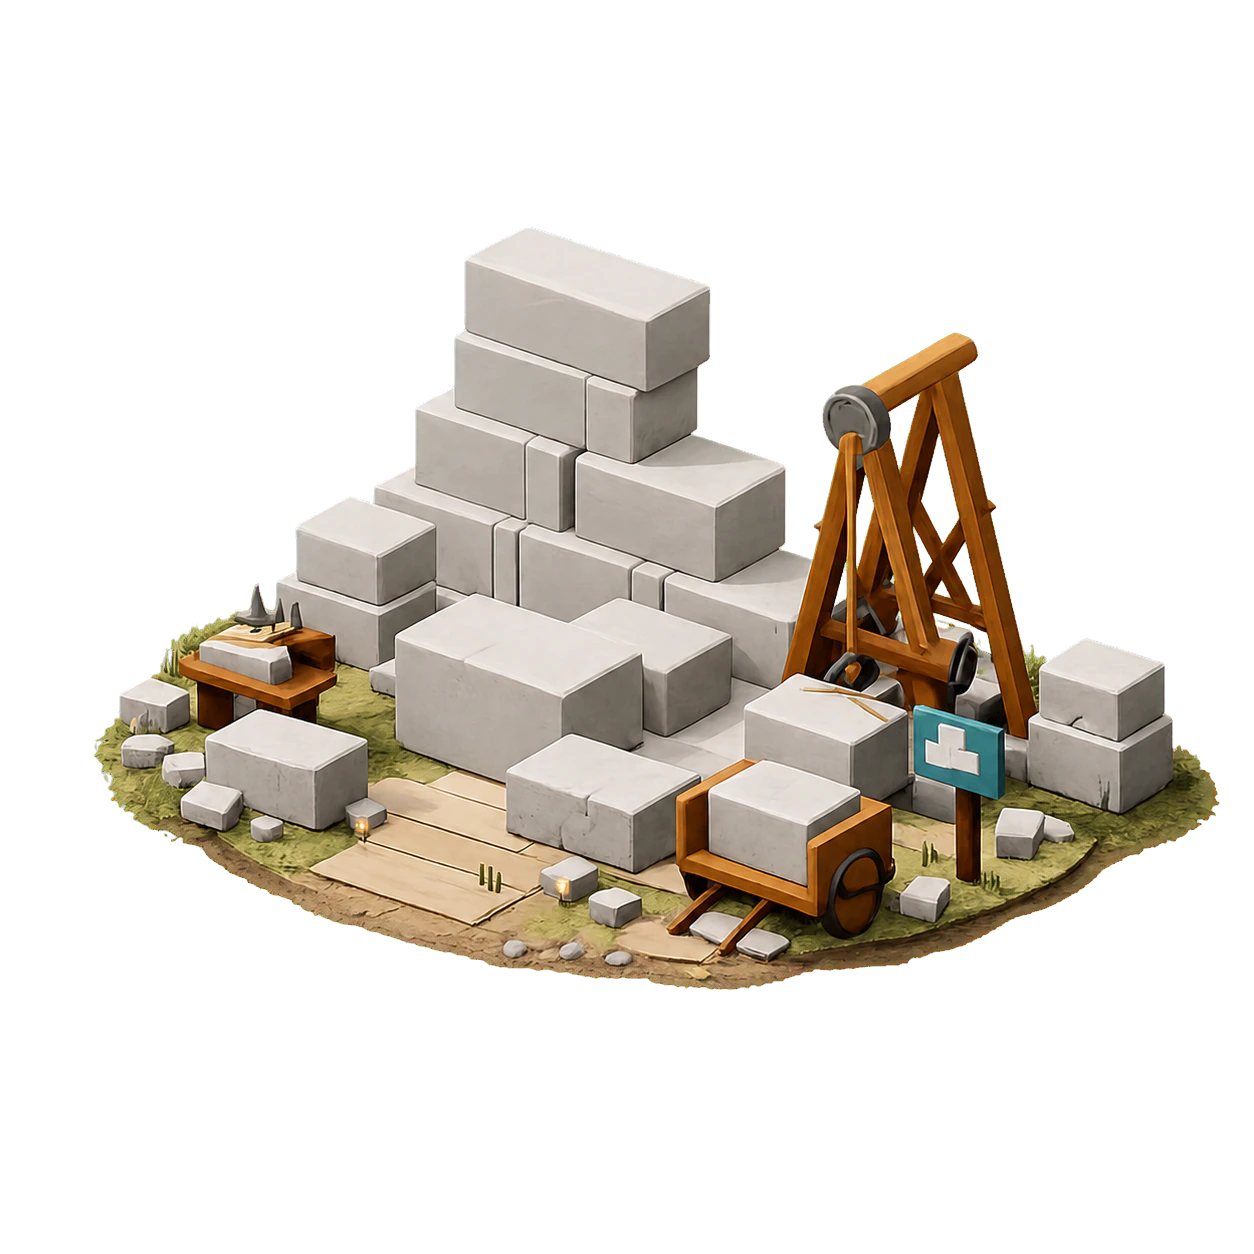
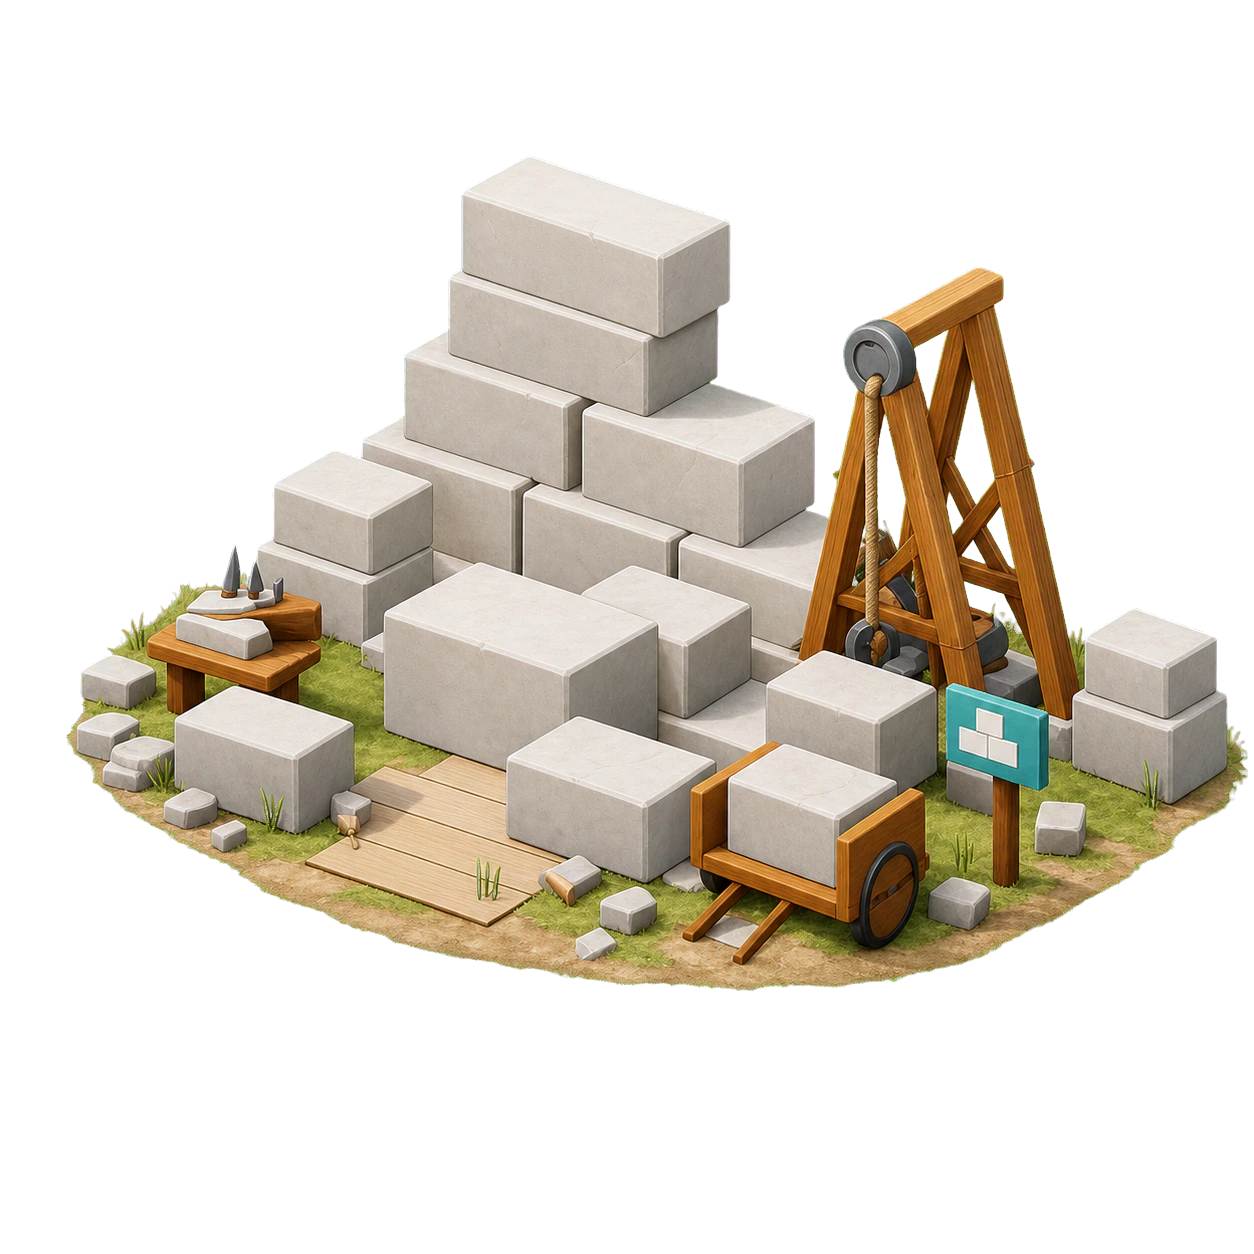
assets: refresh Stone Quarry record art

Changed region(s): [[0.0311, 0.1244, 0.9952, 0.8086]]

diff --git a/tests/stoneQuarryRecordArt.test.ts b/tests/stoneQuarryRecordArt.test.ts
@@ -80,7 +80,7 @@ function visibleBounds(raw: Buffer, width: number, height: number) {
 describe('Hegemony Stone Quarry record art', () => {
   it('pins the narrow UI authorization while keeping gameplay server-owned', () => {
     expect(manifest.schemaVersion).toBe(1);
-    expect(manifest.projectAuthorization.scope).toContain('PR #59');
+    expect(manifest.projectAuthorization.scope).toContain('PR #65');
     expect(manifest.projectAuthorization.scope).toContain('public Warpkeep GitHub repository');
     expect(manifest.projectAuthorization.scope).toContain('official warpkeep.com Pages runtime');
     expect(manifest.projectAuthorization.notGranted.join(' ')).toMatch(

diff --git a/ASSETS-LICENSE.md b/ASSETS-LICENSE.md
@@ -133,8 +133,8 @@ Gold/Marks authority. No Pages deployment is authorized by this record.
 
 ## Hegemony Stone Quarry inspection artwork
 
-On 2026-07-18, the Warpkeep project owner supplied a Stone Quarry visual and
-instructed isolated draft PR #59 to prepare a high-resolution UI element in the
+On 2026-07-19, the Warpkeep project owner supplied a Stone Quarry visual and
+instructed draft PR #65 to prepare a high-resolution UI element in the
 same careful inspection-art pattern. That authorization covers this exact
 checked-in output in the public Warpkeep GitHub repository and an eventual
 official `warpkeep.com` Pages runtime after separately approved deployment. It
@@ -145,15 +145,15 @@ expose a balance, or activate gathering.
 
 | Intended use | Repository file | Technical record |
 | --- | --- | --- |
[2 lines of base64/hex data omitted]
 
 The exact source attachment and image-generation/chroma-matte intermediates are
 not committed. Their hashes, prompt, cleanup parameters, decoded RGBA hash,
 alpha profile, and visible bounds are recorded in the dated [Stone Quarry
 inspection-art record](docs/reference/resources/2026-07-18-hegemony-stone-quarry/record-art/manifest.json).
-The prepared panel is deliberately unmounted until a separately reviewed
-authoritative Stone-site integration; it grants no resource, currency, reward,
-entitlement, map-placement, Stone/Marks authority, or Pages deployment.
+The prepared panel is mounted only through the separately reviewed canonical
+Stone-site integration; it grants no resource, currency, reward, entitlement,
+map-placement, Stone/Marks authority, or Pages deployment.
 
 ## Hegemony Gold Mine review candidates
 

diff --git a/docs/reference/resources/2026-07-18-hegemony-stone-quarry/record-art/README.md b/docs/reference/resources/2026-07-18-hegemony-stone-quarry/record-art/README.md
@@ -7,8 +7,8 @@ chroma-matte intermediate remain outside the repository; their hashes,
 dimensions, and complete bounded transformation are retained in
 [`manifest.json`](manifest.json).
 
-On 18 July 2026, the Warpkeep project owner supplied the Quarry visual and
-instructed draft PR #59 to add a polished high-resolution UI element similar to
+On 19 July 2026, the Warpkeep project owner supplied the Quarry visual and
+instructed draft PR #65 to add a polished high-resolution UI element similar to
 the reviewed inspection-art pattern. That authorization covers this exact
 checked-in derivative in the public Warpkeep GitHub repository and an eventual
 official `warpkeep.com` Pages runtime only after separately approved deployment.
@@ -20,12 +20,12 @@ derivative, redistribution, trademark, or canonical-identity rights.
 
 | File | Dimensions | Bytes | SHA-256 |
 | --- | ---: | ---: | --- |
[2 lines of base64/hex data omitted]
 
 The rendered Quarry was placed on a flat chroma-green field, then a recorded
 soft chroma matte removed the field and despilled the edge. The decoded result
-has 1,078,736 fully transparent, 5,760 partially transparent, and 488,020
-opaque pixels. Its alpha-16 visible bounds are `x=93..1219`, `y=227..989`,
+has 987,016 fully transparent, 7,749 partially transparent, and 577,751
+opaque pixels. Its alpha-16 visible bounds are `x=66..1247`, `y=156..990`,
 leaving transparent breathing room around the quarry, hoist, cart, workbench,
 and ground silhouette.
 

diff --git a/docs/legal/license-inventory.md b/docs/legal/license-inventory.md
@@ -34,7 +34,7 @@ staged visual groundwork.
 | `/public/images/realm/hegemony-gold-mine-record.webp` | Transparent decorative Gold Mine inspection-card artwork | Not present | `LicenseRef-Warpkeep-Provenance-Required`; no separate public open license asserted | On 2026-07-18, the project owner authorized the exact background-cleaned derivative for PR #49 and the reviewed Gold Wagon integration in the public Warpkeep GitHub repository, plus an eventual official `warpkeep.com` Pages runtime only after separately approved deployment; this is not deployment approval or Gold Mine economic authority | The dated Gold Mine inspection-art record pins the supplied input, generated/chroma inputs, exact output, alpha audit, UI-only boundary, and authorization scope | Preserve the exact hash and decorative-only use; do not infer a node placement, gathering action, balance, reward, Marks linkage, public relicensing, or general redistribution authority |
 | `/public/images/realm/hegemony-wheat-farm-record.webp` | Transparent decorative Wheat Farm inspection-card artwork | Not present | `LicenseRef-Warpkeep-Provenance-Required`; no separate public open license asserted | On 2026-07-18, the project owner authorized the exact background-cleaned derivative for PR #57 in the public Warpkeep GitHub repository, plus an eventual official `warpkeep.com` Pages runtime only after separately approved deployment; this is not deployment approval or Food economic authority | The dated Wheat Farm inspection-art record pins the supplied input, generated/chroma inputs, exact output, alpha audit, UI-only boundary, and authorization scope | Preserve the exact hash and decorative-only use; do not infer a Food-site placement, gathering action, balance, reward, Marks linkage, public relicensing, or general redistribution authority |
 | `/public/images/realm/hegemony-logging-camp-record.webp` | Transparent decorative Logging Camp inspection-card artwork | Not present | `LicenseRef-Warpkeep-Provenance-Required`; no separate public open license asserted | On 2026-07-19, the project owner authorized the exact background-cleaned derivative for PR #62 in the public Warpkeep GitHub repository, plus an eventual official `warpkeep.com` Pages runtime only after separately approved deployment; this is not merge or deployment approval or Wood economic authority | The dated Logging Camp inspection-art record pins the supplied RGB preview, local alpha-matte input, exact output, alpha/spill audit, UI-only boundary, and authorization scope | Preserve the exact hash and decorative-only use; do not infer a Wood-site placement, gathering action, balance, reward, Marks linkage, public relicensing, or general redistribution authority |
-| `/public/images/realm/hegemony-stone-quarry-record.webp` | Transparent decorative Stone Quarry inspection-card artwork | Not present | `LicenseRef-Warpkeep-Provenance-Required`; no separate public open license asserted | On 2026-07-18, the project owner authorized the exact background-cleaned derivative for draft PR #59 in the public Warpkeep GitHub repository, plus an eventual official `warpkeep.com` Pages runtime only after separately approved deployment; this is not deployment approval or Stone-site/economic authority | The dated Stone Quarry inspection-art record pins the supplied input, generated/chroma inputs, exact output, alpha audit, UI-only boundary, and authorization scope | Preserve the exact hash and decorative-only use; do not infer a node placement, gathering action, balance, reward, Marks linkage, public relicensing, or general redistribution authority |
+| `/public/images/realm/hegemony-stone-quarry-record.webp` | Transparent decorative Stone Quarry inspection-card artwork | Not present | `LicenseRef-Warpkeep-Provenance-Required`; no separate public open license asserted | On 2026-07-19, the project owner authorized the exact background-cleaned derivative for draft PR #65 in the public Warpkeep GitHub repository, plus an eventual official `warpkeep.com` Pages runtime only after separately approved deployment; this is not deployment approval or Stone-site/economic authority | The dated Stone Quarry inspection-art record pins the supplied input, generated/chroma inputs, exact output, alpha audit, UI-only boundary, and authorization scope | Preserve the exact hash and decorative-only use; do not infer a node placement, gathering action, balance, reward, Marks linkage, public relicensing, or general redistribution authority |
 | `/docs/reference/resources/2026-07-18-hegemony-gold-mine/runtime-candidates/**` | Historical Hegemony Gold Mine technical-review candidates | Not present | `LicenseRef-Warpkeep-Provenance-Required`; no separate public open license asserted | The owner supplied the exact three source inputs; their historical candidate bytes themselves do not authorize browser delivery, gameplay, deployment, or public relicensing | The candidate record pins supplied hashes and the known atlas-metadata discrepancy; the separate runtime record documents the reviewed promotion | Keep outside `public/` and never import candidate paths; preserve them as audit evidence for the separately named digest-bearing runtime outputs |
 | `/public/models/hegemony/gathering-nodes/gold-mine/hegemony-gold-mine-*.glb` | Active Hegemony Gold Mine visual runtime LODs | Not present | `LicenseRef-Warpkeep-Provenance-Required`; no separate public open license asserted | On 2026-07-18, the project owner authorized the named reviewed outputs for the Gold Wagon integration in this public Warpkeep GitHub repository and an eventual official `warpkeep.com` Pages runtime after separately approved deployment; this is not deployment approval | The separate runtime record pins source inputs, exact output hashes, bounded Balanced/Compact atlas metadata normalization, orientation, and visual-only boundary | Preserve immutable hash-bearing paths; do not infer site placement, occupation, dispatch, travel, balance, reward, Marks linkage, public relicensing, or general redistribution authority |
 | `/public/models/hegemony/gathering-nodes/wheat-farm/hegemony-wheat-farm-*.glb` | Active Hegemony Wheat Farm visual runtime LODs | Not present | `LicenseRef-Warpkeep-Provenance-Required`; no separate public open license asserted | On 2026-07-18, the project owner supplied the exact provisional Wheat Farm delivery for a separate draft Food-node PR and an eventual official `warpkeep.com` Pages runtime only after separately approved deployment; this is not publication, Food-site seed, economic, or deployment approval | The dated Wheat Farm runtime record pins the delivered manifest facts, exact output hashes, orientation, LOD budgets, collision guidance, and visual-only boundary | Preserve immutable hash-bearing paths; do not infer authoritative placement, collision, routing, occupation, ownership, Food balance/reward, scheduler behavior, public relicensing, or general redistribution authority |